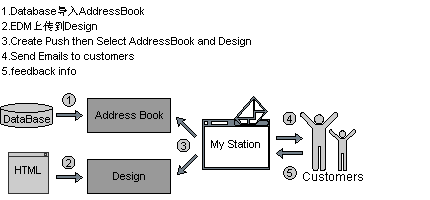
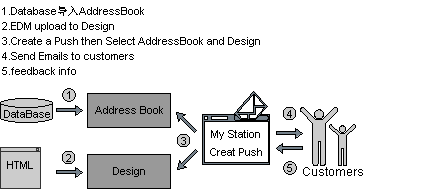
change push css note

diff --git a/public/stylesheets/all.css b/public/stylesheets/all.css
@@ -23,7 +23,7 @@
 
 #content {
     width: 400px;
-    height: 250px;
+    height: 270px;
     padding: 2px;
     clear: left;
     position: relative;

diff --git a/public/stylesheets/shin.css b/public/stylesheets/shin.css
@@ -23,7 +23,7 @@
 
 #content {
     width: 400px;
-    height: 250px;
+    height: 270px;
     padding: 2px;
     clear: left;
     position: relative;
